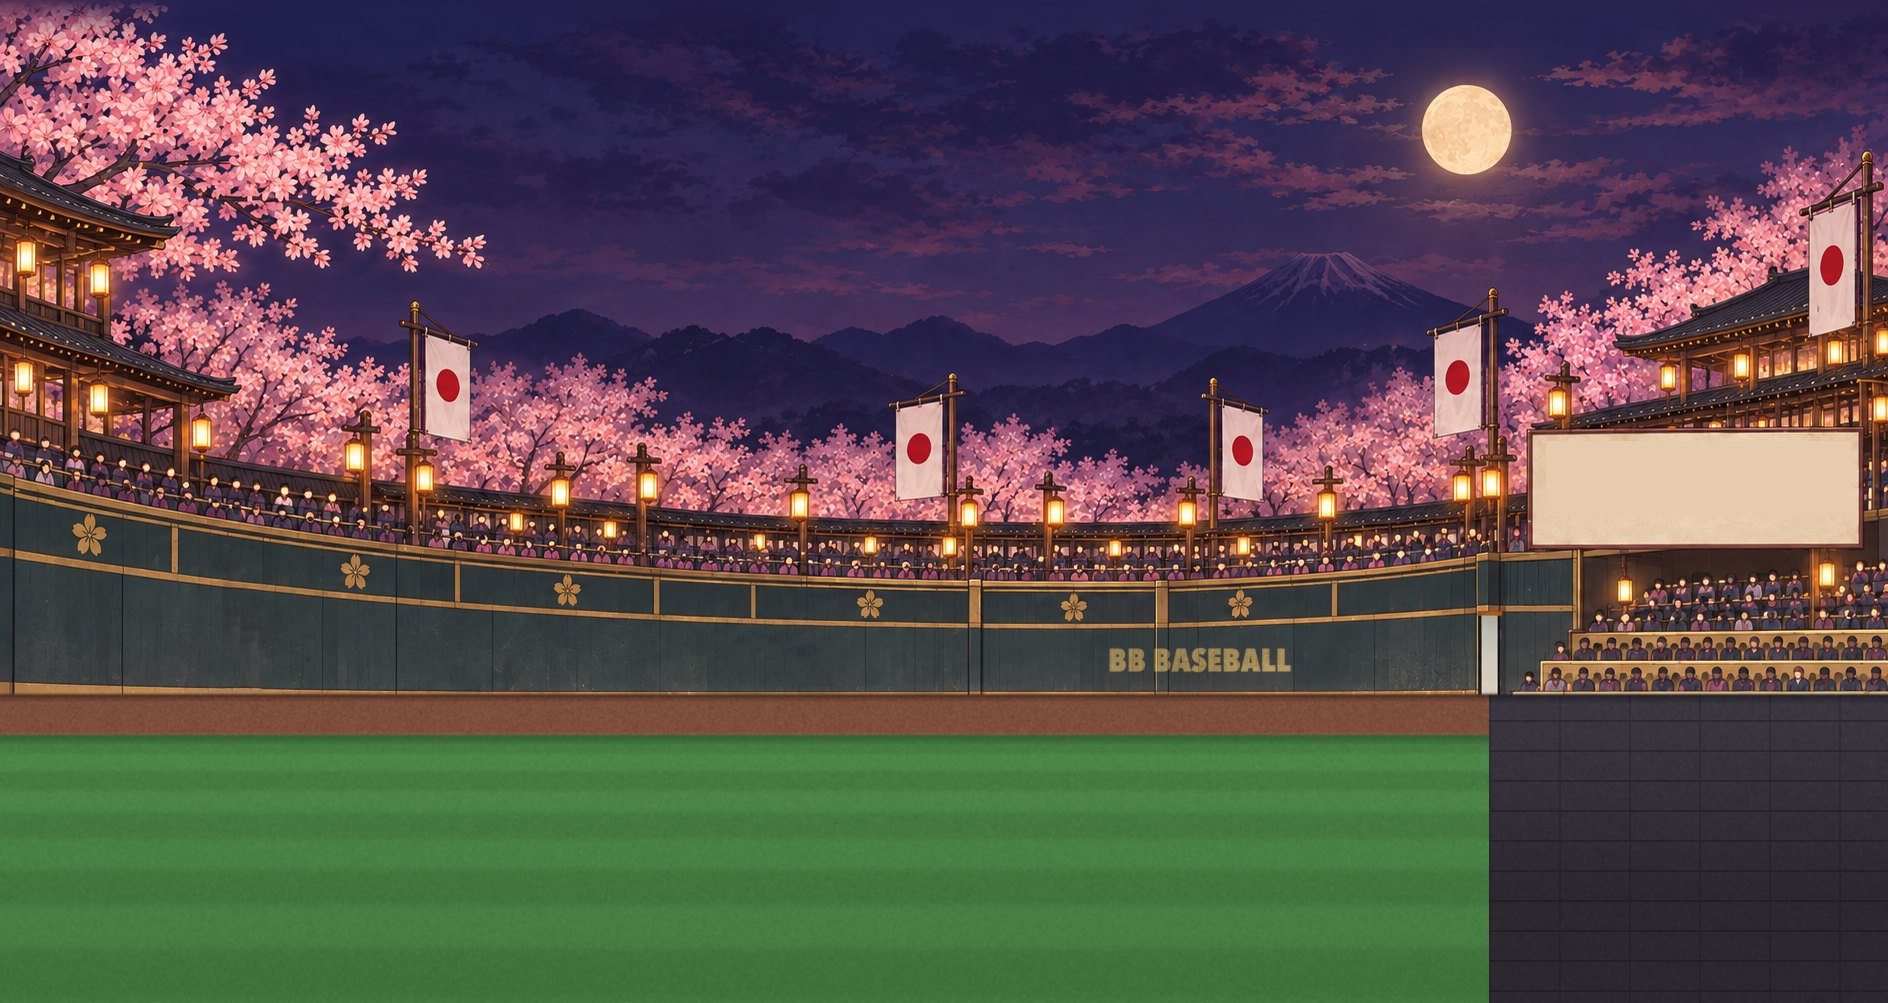
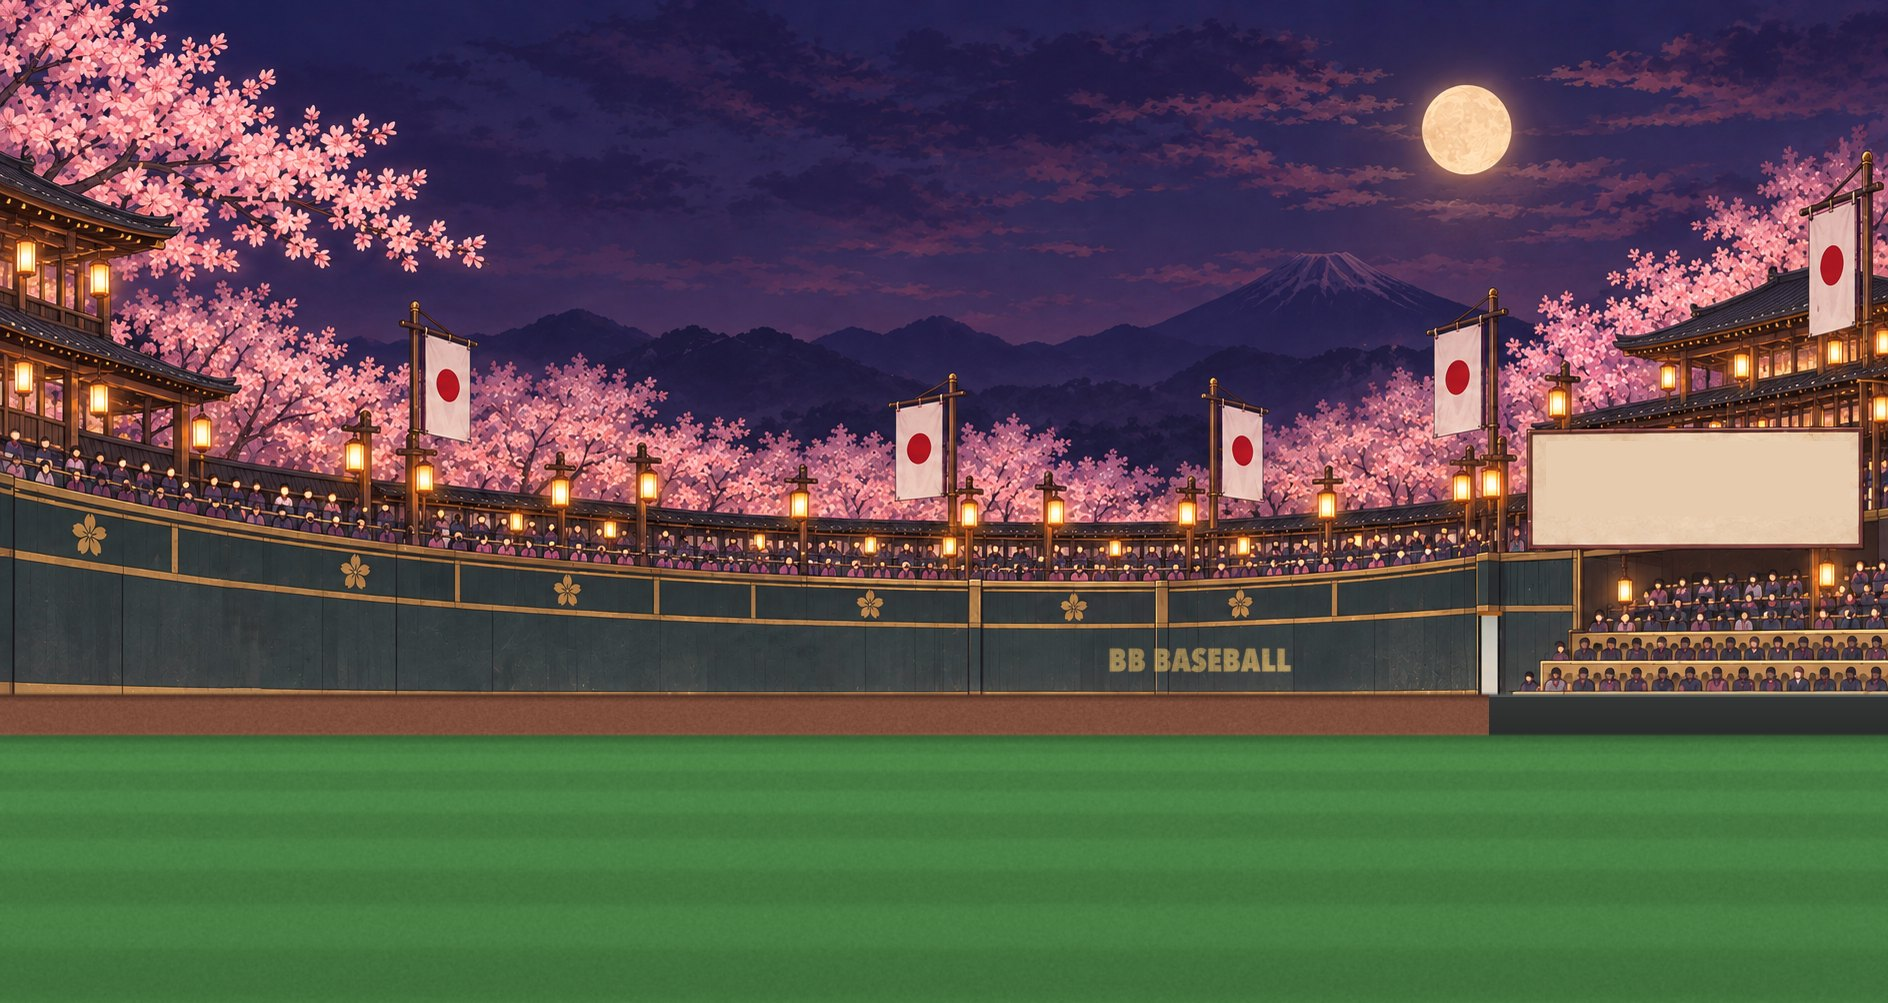
play: 1.2.0 최종 — 아이패드 위쪽 블러 해결(하늘 확장 삭제)·유리 수비 버튼·점수판 최근 3이닝·약관에 별별코인 저장 문구 (D118~D122) / 처리방침에 별별코인 잔액·연 구장 항목

Changed region(s): [[0.7812, 0.7109, 1.0, 1.0], [0.0, 0.0, 0.0938, 0.0618]]

diff --git a/play/app.js b/play/app.js
@@ -956,13 +956,23 @@ function draw(now) {
   const batX = W * 0.13;
   const hitX = batX + 34, hitY = g - 35;
   const pitX = W * 0.40;
-  const fieldEnd = W * 0.96;
+  // D120: 배경판이 전광판 때문에 담장을 왼쪽으로 당겼으면 거리 배율도 같이 (맥과 같다)
+  const fieldEnd = plate && plate.anchor > hitX + 40 ? hitX + (plate.anchor - 7 - hitX) * span / vcfg0.homerunLine : W * 0.96;
   // D78: 비거리 상한 없음 — 그림은 155m 까지만 (main.swift 와 동일)
   const x_of = (m) => hitX + (Math.min(m, span) / span) * (fieldEnd - hitX);
   const tickColor = ink(0.45);
   const inMenus = ['home', 'matchMenu', 'matchSetup', 'pvpMenu', 'pvpLobby', 'friends', 'blocks', 'settings'].includes(game.screen);
   const inShop = game.screen === 'shop';   // 상점은 필드를 그대로 그려 미리보기로 쓴다 (선수도 플레이 위치)
   if (plate && inMenus) {
+    // 그림 속 전광판 — 메뉴에서도 글씨를 (D121: 빈 흰 판이 어색했다, 맥과 같다). 반투명 판 아래로
+    const br = boardRect(theme, plate);
+    const inkB = theme.boardDark ? 'rgba(255,240,205,0.92)' : 'rgba(40,40,40,0.8)';
+    const promo = showPromo() ? online.promo() : null;
+    if (promo && promo.board.length) drawPromoBoard(br, promo.board[0], inkB);
+    else {
+      const t = online.adBoardRemote ?? L('별별야구', 'BB Baseball');
+      if (textW(t, mono(15, 700)) < br.w - 8) text(t, br.x + br.w / 2, br.y + br.h / 2 - 8, mono(15, 700), inkB, 'center');
+    }
     ctx.globalAlpha = 0.66;
     ctx.fillStyle = bg(); ctx.fillRect(0, 0, W, H); ctx.globalAlpha = 1;
   }
@@ -1022,8 +1032,11 @@ function draw(now) {
 
   // ── 지면 + 눈금 ──
   ctx.strokeStyle = ink(0.25); ctx.lineWidth = 1;
-  ctx.beginPath(); ctx.moveTo(0, g); ctx.lineTo(W, g); ctx.stroke();
+  // 배경판 위에선 지면선·눈금을 담장에서 끊는다 (D118, 맥과 같다). 기본 구장은 그대로
+  const lineEnd = plate ? x_of(vcfg0.homerunLine) : W;
+  ctx.beginPath(); ctx.moveTo(0, g); ctx.lineTo(lineEnd, g); ctx.stroke();
   for (const m of [50, 100, 150]) {
+    if (plate && m >= vcfg0.homerunLine) continue;
     const x = x_of(m);
     ctx.beginPath(); ctx.moveTo(x, g); ctx.lineTo(x, g + 5); ctx.stroke();
     text(`${m}m`, x - 8, g + 7, smallFont, tickColor);
@@ -1257,7 +1270,7 @@ function draw(now) {
   if (game.mode === 'race' && game.phase === 'ended') drawRaceOver(sum, now);
   if (game.mode === 'duel' && game.screen === 'match' && game.phase !== 'ended'
       && game.halfChangeAt > 0) {
-    drawHalfChangeCard(now - game.halfChangeAt);
+    drawHalfChangeCard(now - game.halfChangeAt, theme, plate);
   }
   if (game.mode === 'duel' && game.screen === 'match' && game.ranked && game.matchedAt > 0) drawMatched(now - game.matchedAt);
   if (game.mode === 'duel' && game.phase === 'ended') drawDuelOver(now);
@@ -1554,9 +1567,9 @@ function drawMenus(hudY, g, now) {
 // ═══ 경기 스코어보드 (main.swift drawDuelScoreboard) ═══
 function drawDuelScoreboard(hudY) {
   const oppName = game.pvp ? game.oppNick.slice(0, 3) : L('봇', 'Bot');
-  const cellW = 22, nameW = 34, left = 18;
-  const maxCells = Math.max(3, Math.floor((W * 0.46 - nameW - 34) / cellW));
-  const shown = Math.min(game.dInnT, maxCells);
+  const cellW = 22, left = 18;
+  const nameW = Math.max(34, Math.max(textW(L('나', 'Me'), hudFont), textW(oppName, hudFont)) + 18);   // D119: 긴 이름이 첫 칸에 겹쳤다
+  const shown = Math.min(game.dInnT, 3);   // 경기 중엔 최근 3이닝만 (D119, 맥과 같다). 전체는 종료 화면이
   const first = Math.max(0, Math.min(game.dInn, game.dInnT) - shown);
   const truncated = first > 0;
   const colX = (i) => left + nameW + i * cellW + cellW / 2;
@@ -1731,7 +1744,7 @@ function drawDuelOver(now) {
   const c = (str, y, font, color) => text(str, cx, y + rise, font, color, 'center');
   const verdictColor = iWon ? ORANGE() + `${appear})` : ink((oppWon ? 0.55 : 0.75) * appear);
   c(iWon ? 'YOU WIN' : oppWon ? 'YOU LOSE' : 'DRAW', Y(18), mono(26, 800), verdictColor);
-  c(L(`나 ${my}  :  ${bot} ${oppName}`, `Me ${my}  :  ${bot} ${oppName}`), Y(52), mono(34, 900), ink(0.95 * appear));
+  c(`${shortDisplay(online.nickname(), 6)} ${my}  :  ${bot} ${oppName}`, Y(52), mono(34, 900), ink(0.95 * appear));   // 맥과 같이 닉네임 (공유 이미지, D105)
   const scoreRow = (name, arr, total) => {
     const cells = [];
     for (let i = 0; i < game.dInnT; i++) {
@@ -1805,22 +1818,27 @@ function drawMatched(t) {
 }
 
 // 공수 교대 알림 (시안 C — 카드형)
-function drawHalfChangeCard(t) {
+function drawHalfChangeCard(t, theme = null, plate = null) {
   const dur = HALF_CHANGE_MS;
   if (t < 0 || t >= dur) return;
   const fade = Math.min(1, Math.min(t / 150, (dur - t) / 300));
   const card = { x: W / 2 - 150, y: H / 2 - 38, w: 300, h: 76 };
-  ctx.globalAlpha = 0.97 * fade;
-  ctx.fillStyle = bg();
-  roundedRect(card.x, card.y, card.w, card.h, 10); ctx.fill();
-  ctx.globalAlpha = 1;
-  ctx.strokeStyle = ORANGE() + `${0.9 * fade})`; ctx.lineWidth = 2;
-  roundedRect(card.x, card.y, card.w, card.h, 10); ctx.stroke();
+  if (plate) {   // 배경판 위: 유리판 (D118 — 검은 카드 + 주황 테두리가 배경과 따로 놀았다)
+    ctx.save(); ctx.globalAlpha = fade; drawGlass(card, 18, theme, plate); ctx.restore();
+  } else {
+    ctx.globalAlpha = 0.97 * fade;
+    ctx.fillStyle = bg();
+    roundedRect(card.x, card.y, card.w, card.h, 10); ctx.fill();
+    ctx.globalAlpha = 1;
+    ctx.strokeStyle = ORANGE() + `${0.9 * fade})`; ctx.lineWidth = 2;
+    roundedRect(card.x, card.y, card.w, card.h, 10); ctx.stroke();
+  }
   text(L('공수 교대', 'Switch sides'), W / 2, card.y + 12, mono(26, 900), ink(0.9 * fade), 'center');
   const next = duel.myBat()
     ? L('이제 내 공격 — Space 로 스윙', 'You bat now — Space to swing')
     : L('이제 내 수비 — 1~4 로 구종 선택', 'You pitch now — 1–4 to choose');
-  text(next, W / 2, card.y + 48, mono(11, 500), ORANGE() + `${fade})`, 'center');
+  const lightGlass = plate && theme && theme.tone !== 'dark';   // 수묵: 밝은 유리 위라 주황을 진하게
+  text(next, W / 2, card.y + 48, mono(11, 500), lightGlass ? `rgba(184,77,0,${fade})` : ORANGE() + `${fade})`, 'center');
 }
 
 // 맥 drawFireworks 포팅 — 좌우 가장자리 방사선 폭죽 (승리 컬러 / 패배 흑백)

diff --git a/privacy.html b/privacy.html
@@ -40,7 +40,7 @@ nav a{margin-right:14px}
 참여하지 않으면 어떤 정보도 전송되지 않으며 홈런레이스와 봇전은 오프라인에서 이용할 수 있습니다.
 온라인 PvP·친구·리더보드·도전 링크는 온라인 참여가 필요합니다.</div>
 <h2>무엇을 저장하나요</h2>
-<ul><li>닉네임 — 직접 입력한 것만. 계정 이름을 쓰지 않습니다.</li><li>기기 식별자 — 앱이 임의로 만든 번호. 기기나 사람을 추적하지 않습니다.</li><li>게임 기록 — 홈런 수·비거리·승패 등 리더보드에 필요한 값.</li><li>친구·차단 관계와 친구에게 표시되는 최근 접속 상태.</li><li>방 초대, 도전 링크와 도전 결과 알림.</li></ul>
+<ul><li>닉네임 — 직접 입력한 것만. 계정 이름을 쓰지 않습니다.</li><li>기기 식별자 — 앱이 임의로 만든 번호. 기기나 사람을 추적하지 않습니다.</li><li>게임 기록 — 홈런 수·비거리·승패 등 리더보드에 필요한 값.</li><li>친구·차단 관계와 친구에게 표시되는 최근 접속 상태.</li><li>방 초대, 도전 링크와 도전 결과 알림.</li><li>별별코인 잔액과 연 경기장 테마 — 플레이로 번 코인과 그 코인으로 연 구장.</li></ul>
 <h2>왜 저장하나요</h2>
 <ul><li>리더보드 순위를 표시하려고</li><li>같은 사람의 기록을 이어 붙이려고</li><li>조작된 기록을 걸러내려고 (입력 로그 재현 검증)</li><li>친구 초대, 온라인 PvP, 같은 투구 도전과 사용자 차단을 제공하려고</li></ul>
 <h2>얼마나 보관하나요</h2>
@@ -57,5 +57,5 @@ nav a{margin-right:14px}
 <p>일본 도쿄 리전의 서버 한 대. 통신은 HTTPS 로 암호화됩니다.</p>
 <h2>문의</h2>
 <p>개인정보 보호책임자 · 문의: bbyagucontact@gmail.com 기록 삭제·정정 요청, 오류 신고를 이 주소로 받습니다.</p>
-<footer>별별야구: The Game · 문의 <a href="mailto:bbyagucontact@gmail.com">bbyagucontact@gmail.com</a><br>최종 수정 2026-09-21</footer>
+<footer>별별야구: The Game · 문의 <a href="mailto:bbyagucontact@gmail.com">bbyagucontact@gmail.com</a><br>최종 수정 2026-10-05</footer>
 </div></body></html>

diff --git a/play/stadium.js b/play/stadium.js
@@ -76,16 +76,13 @@ export function drawPlate(ctx, t, W, H, g, xOff = 0, anchorX = null) {   // xOff
   if (!im) return null;
   const pw = im.naturalWidth, ph = im.naturalHeight;
   let s = Math.max(W / pw, g / (t.horizon * ph)), dx;
+  let anchor = anchorX;
   if (anchorX !== null && t.wallEnd) {
     // D108: 그림 속 담장 끝을 게임 담장(홈런선 기둥)에 맞춘다 — 그림이 양쪽 화면 끝을 다 덮도록 배율을 키운다
-    const cover = Math.max(W / pw, anchorX / (t.wallEnd * pw), (W - anchorX) / ((1 - t.wallEnd) * pw));
-    s = Math.max(s, cover);
-    // D110: 4:3(아이패드)은 높이로 정한 배율이 커서 전광판 조건이 담장을 130px 밀어냈다 —
-    // 담장·전광판이 함께 맞는 배율까지 줄인다(가로는 계속 덮는다). 위에 남는 곳은 하늘을 잇는다 (skyStrip)
-    const sBoth = (W - 4 - anchorX) / ((t.board[2] - t.wallEnd) * pw);
-    if (sBoth < s) s = Math.max(sBoth, cover);
-    // 전광판이 통째로 화면 안에 — 담장 정렬보다 우선 (경기 모드 125m 는 몇 px 어긋난다)
-    dx = Math.min(anchorX - t.wallEnd * pw * s, W - 4 - t.board[2] * pw * s);
+    s = Math.max(s, anchorX / (t.wallEnd * pw), (W - anchorX) / ((1 - t.wallEnd) * pw));
+    // D120: 그림을 줄이지 않는다 (위가 비어 지어낸 하늘이 '블러'처럼 보였다). 전광판이 넘치면 게임 담장을 왼쪽으로 당긴다
+    anchor = Math.min(anchorX, W - 4 - (t.board[2] - t.wallEnd) * pw * s);
+    dx = anchor - t.wallEnd * pw * s;
   } else {
     dx = pw * s > W + 1 ? W - pw * s : (W - pw * s) / 2;
   }
@@ -111,7 +108,7 @@ export function drawPlate(ctx, t, W, H, g, xOff = 0, anchorX = null) {   // xOff
   }
   if (bottom < H) { ctx.fillStyle = groundColor(t.id, im); ctx.fillRect(dx, bottom - 1, pw * s, H - bottom + 1); }
   ctx.drawImage(im, dx, dy, pw * s, ph * s);
-  return { s, dx, dy, pw, ph, ext };
+  return { s, dx, dy, pw, ph, ext, anchor };
 }
 
 /// 그림 속 전광판(빈 판)의 캔버스 좌표 — 게임이 여기에 문구·후원 그림을 얹는다

diff --git a/privacy-en.html b/privacy-en.html
@@ -40,7 +40,7 @@ nav a{margin-right:14px}
 and Home Run Race plus bot games remain available offline. Online PvP, friends,
 leaderboards, and challenge links require online play.</div>
 <h2>What we store</h2>
-<ul><li>Nickname — only what you typed. Your account name is never used.</li><li>Device ID — a random number the app made up. It doesn&#x27;t track you or your device.</li><li>Game records — HR counts, distances, win/loss; what leaderboards need.</li><li>Friend and block relationships, plus recent activity shown to friends.</li><li>Room invitations, challenge links, and challenge-result notices.</li></ul>
+<ul><li>Nickname — only what you typed. Your account name is never used.</li><li>Device ID — a random number the app made up. It doesn&#x27;t track you or your device.</li><li>Game records — HR counts, distances, win/loss; what leaderboards need.</li><li>Friend and block relationships, plus recent activity shown to friends.</li><li>Room invitations, challenge links, and challenge-result notices.</li><li>BB Coin balance and unlocked stadium themes — coins earned by playing and the parks they opened.</li></ul>
 <h2>Why we store it</h2>
 <ul><li>To show leaderboard rankings</li><li>To connect records from the same person</li><li>To filter out fabricated records (replay verification of input logs)</li><li>To provide friend invites, online PvP, same-pitch challenges, and user blocking</li></ul>
 <h2>How long we keep it</h2>
@@ -57,5 +57,5 @@ leaderboards, and challenge links require online play.</div>
 <p>One server in Tokyo, Japan. All traffic is encrypted over HTTPS.</p>
 <h2>Contact</h2>
 <p>Privacy officer · contact: bbyagucontact@gmail.com Deletion/correction requests and bug reports both welcome here.</p>
-<footer>BB Baseball: The Game · Contact <a href="mailto:bbyagucontact@gmail.com">bbyagucontact@gmail.com</a><br>Last updated 2026-09-21</footer>
+<footer>BB Baseball: The Game · Contact <a href="mailto:bbyagucontact@gmail.com">bbyagucontact@gmail.com</a><br>Last updated 2026-10-05</footer>
 </div></body></html>

diff --git a/play/online.js b/play/online.js
@@ -373,6 +373,7 @@ export const TERMS_KO = [
   '· 게임 기록 — 홈런 수·비거리·승패 등 리더보드에 필요한 값.',
   '· 친구·차단 관계와 친구에게 표시되는 최근 접속 상태.',
   '· 방 초대, 도전 링크와 도전 결과 알림.',
+  '· 별별코인 잔액과 연 경기장 테마 — 플레이로 번 코인과 그 코인으로 연 구장.',
   '',
   '# 왜 저장하나요',
   '· 리더보드 순위를 표시하려고',
@@ -421,6 +422,7 @@ export const TERMS_EN = [
   '· Game records — HR counts, distances, win/loss; what leaderboards need.',
   '· Friend and block relationships, plus recent activity shown to friends.',
   '· Room invitations, challenge links, and challenge-result notices.',
+  '· BB Coin balance and unlocked stadium themes — coins earned by playing and the parks they opened.',
   '',
   '# Why we store it',
   '· To show leaderboard rankings',

diff --git a/index.html b/index.html
@@ -59,5 +59,5 @@ nav a{margin-right:14px}
 방 코드·랜덤 매칭 PvP도 지원합니다.</p>
 <h2 style="font-size:15px">받기</h2>
 <p><a href="https://apps.apple.com/kr/app/id6806802060">App Store (맥·아이폰·아이패드)</a> · 무료</p>
-<footer>별별야구: The Game · 문의 <a href="mailto:bbyagucontact@gmail.com">bbyagucontact@gmail.com</a><br>최종 수정 2026-09-21</footer>
+<footer>별별야구: The Game · 문의 <a href="mailto:bbyagucontact@gmail.com">bbyagucontact@gmail.com</a><br>최종 수정 2026-10-05</footer>
 </div></body></html>
